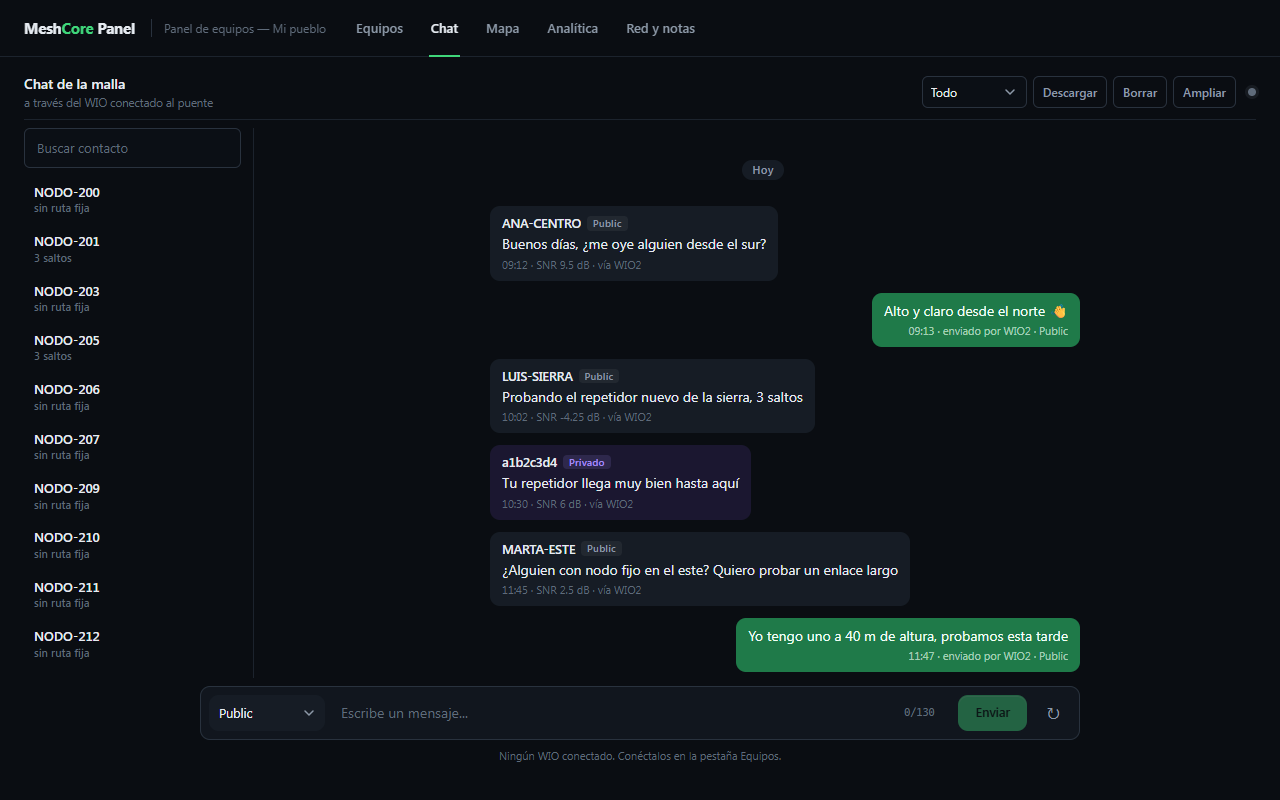
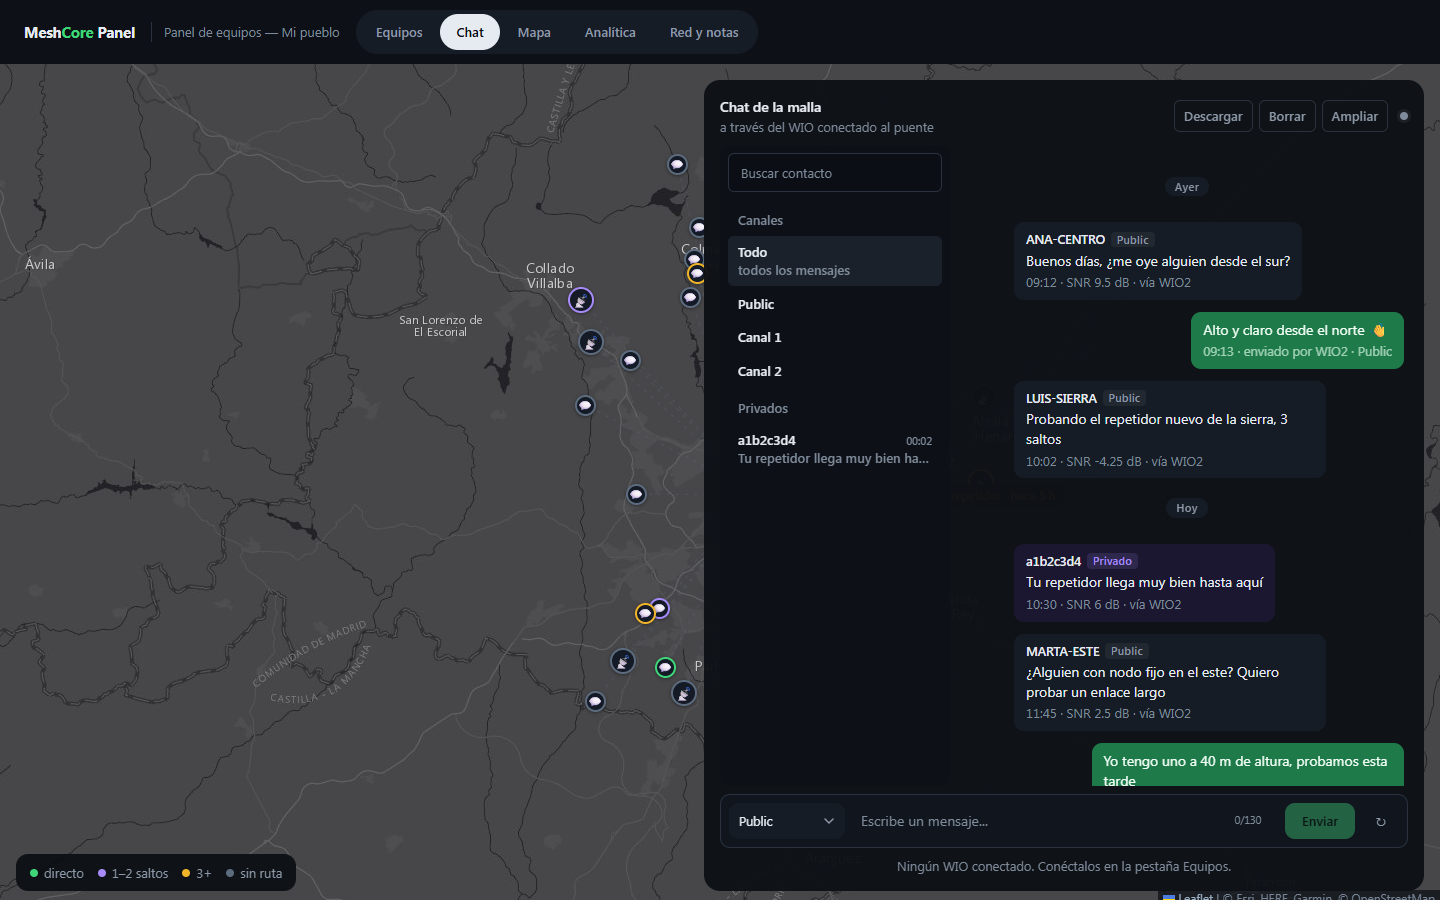
v1.14.0: chat sobre el mapa, cabecera nueva y aviso de repetidor sin señal

diff --git a/dashboard.html b/dashboard.html
@@ -642,6 +642,30 @@ p,.statsNote{max-width:75ch}
 .eqTag::before{display:none}
 #eqMap .leaflet-control-attribution{background:rgba(13,17,22,.8);color:#6d7a88}
 #eqMap .leaflet-control-attribution a{color:#8592a0}
+.red-nav::after{display:none!important}
+.eqAviso{background:#2a2210!important;color:#f2b23a!important;font-weight:600}
+/* Cabecera del diseño nuevo: pestañas en pastillas, la activa resaltada */
+header{background:var(--bg2)!important;border-bottom:none!important}
+nav.tabs{background:var(--raise)!important;border-radius:999px!important;padding:4px!important;margin:0 auto!important;align-self:center!important;gap:2px!important}
+nav.tabs button{height:36px!important;line-height:36px!important;padding:0 16px!important;border-radius:999px!important;color:var(--dim)!important}
+nav.tabs button.on{background:var(--fg)!important;color:var(--bg)!important}
+nav.tabs button.on::after{display:none!important}
+nav.tabs button:hover:not(.on){background:var(--hover)!important;color:var(--fg)!important}
+nav.tabs button .badge2{margin-left:6px}
+/* Chat sobre el mapa: el mapa de fondo y la conversación flotando a la derecha */
+#tab-chat.on{position:relative;margin:-28px calc(50% - 50vw) 0;width:100vw;overflow:hidden;padding:0;height:calc(100dvh - 57px)}
+#tab-chat .grid{display:block;margin:0}
+#tab-chat .chatcard{position:absolute!important;top:16px;right:16px;bottom:16px;left:auto;width:min(720px,calc(100% - 32px))!important;height:auto!important;max-width:none!important;margin:0!important;z-index:500;background:rgba(13,17,22,.97)!important;border-radius:16px!important;padding:16px!important}
+#tab-chat .chatcard.chat-full{left:16px;width:auto!important}
+#tab-chat #chatBox{padding:8px 4px!important}
+#tab-chat .chatComposer{margin:8px 0 0!important}
+#tab-chat .eqLeyenda{right:auto;left:16px}
+@media (max-width:860px){
+  #tab-chat.on{height:calc(100dvh - 96px)}
+  #tab-chat .chatcard{top:auto;left:0;right:0;bottom:0;width:auto!important;height:78%!important;background:var(--panel,#0d1116)!important;border-radius:20px 20px 0 0!important}
+  nav.tabs{border-radius:999px!important;margin:4px 0 8px!important;width:auto!important}
+  nav.tabs button{height:34px!important;padding:0 12px!important;flex:0 0 auto!important}
+}
 @media (max-width:860px){
   #tab-equipos.on{height:calc(100dvh - 96px)}
   #tab-equipos .equiposWrap .grid{display:none}
@@ -1346,7 +1370,7 @@ const CFG=Object.assign({
 }, window.PANEL_CONFIG||{});
 const REPEATER_POS=[CFG.repetidor.lat, CFG.repetidor.lon];
 const REP_NOMBRE=CFG.repetidor.nombre;
-const PANEL_VERSION='1.13.0';
+const PANEL_VERSION='1.14.0';
 $('#panelVersion').textContent='v'+PANEL_VERSION;
 // Sin config.js propio el panel funciona, pero con nombres de ejemplo que no
 // cuadran con ninguna radio: avisarlo para que no parezca un fallo.
@@ -1407,7 +1431,12 @@ function showTab(name){
   document.querySelectorAll('.tabview').forEach(v=>v.classList.toggle('on',v.id==='tab-'+name));
   if(name==='chat'){ unreadChat=0; updateChatBadge(); fitChatCardToViewport(); }
   if(name==='mapa') fitMapWrapToViewport();
-  if(name==='equipos') setTimeout(pintarEqMap,30);
+  // Un solo mapa de fondo: se mueve a la pestaña que lo usa (Equipos o Chat).
+  if(name==='equipos'||name==='chat'){
+    const destino=document.getElementById('tab-'+name), m=$('#eqMap'), ley=$('.eqLeyenda');
+    if(m && m.parentNode!==destino){ destino.prepend(ley); destino.prepend(m); }
+    setTimeout(pintarEqMap,30);
+  }
   if(name==='stats'){ renderStats(); pintarHistoricoRak(); }
   try{ history.replaceState(null,'',name==='equipos'?location.pathname+location.search:'#'+name); }catch(e){}
 }
@@ -3199,7 +3228,7 @@ $('#ccBuscar').addEventListener('input',pintarContactos);
 // herramientas, sigue en la pestaña Mapa.
 let eqMap=null;
 function pintarEqMap(){
-  if(!$('#eqMap') || !$('#tab-equipos').classList.contains('on')) return;
+  if(!$('#eqMap') || !$('#eqMap').offsetParent) return;  // pestaña sin mapa a la vista
   if(!eqMap){
     eqMap=L.map('eqMap',{zoomControl:false});
     L.tileLayer('https://server.arcgisonline.com/ArcGIS/rest/services/Canvas/World_Dark_Gray_Base/MapServer/tile/{z}/{y}/{x}',
@@ -3209,6 +3238,7 @@ function pintarEqMap(){
     eqMap._capa=L.layerGroup().addTo(eqMap);
   }
   const g=eqMap._capa; g.clearLayers();
+  const est=window.rakEstado, sinRak=!est||est.vieja;
   const pts=[REPEATER_POS];  // lo que entra en el encuadre inicial: tu zona, no toda la red
   L.circle(REPEATER_POS,{radius:4000,color:'#3fd67a',weight:1,opacity:.45,fillOpacity:.04,dashArray:'4,6',interactive:false}).addTo(g);
   const vistos=new Set();
@@ -3219,7 +3249,7 @@ function pintarEqMap(){
       vistos.add(c.pubkey);
       if(distKm(REPEATER_POS,[c.lat,c.lon])>150) continue;  // la red ibérica entera no cabe
       const col=c.hops==null?'#5c6b7d':c.hops===0?'#3fd67a':c.hops<=2?'#a78bfa':'#f0b429';
-      L.polyline([REPEATER_POS,[c.lat,c.lon]],{color:col,weight:1,opacity:.35,interactive:false}).addTo(g);
+      L.polyline([REPEATER_POS,[c.lat,c.lon]],sinRak?{color:'#5c6b7d',weight:1,opacity:.35,dashArray:'3,6',interactive:false}:{color:col,weight:1,opacity:.35,interactive:false}).addTo(g);
       L.marker([c.lat,c.lon],{icon:neighborIcon(c)}).addTo(g).bindTooltip(esc(c.name||'(sin nombre)'),{direction:'right',className:'eqTag',offset:[12,0]});
       if(distKm(REPEATER_POS,[c.lat,c.lon])<=30) pts.push([c.lat,c.lon]);
     }
@@ -3232,8 +3262,9 @@ function pintarEqMap(){
       .bindTooltip('WIO'+i,{permanent:true,direction:'right',className:'eqTag',offset:[14,0]});
     pts.push([sp.lat,sp.lon]);
   }
-  L.marker(REPEATER_POS,{icon:mapPin('📡',38,'#0d3a24','#3fd67a'),zIndexOffset:1000}).addTo(g)
-    .bindTooltip(esc(REP_NOMBRE),{permanent:true,direction:'right',className:'eqTag',offset:[18,0]});
+  L.marker(REPEATER_POS,{icon:sinRak?mapPin('📡',38,'#2a2210','#f2b23a'):mapPin('📡',38,'#0d3a24','#3fd67a'),zIndexOffset:1000}).addTo(g)
+    .bindTooltip(sinRak?esc(REP_NOMBRE)+' · sin señal del repetidor'+(est&&est.at?' · '+esc(humanAgo(est.at*1000)):''):esc(REP_NOMBRE),
+      {permanent:true,direction:'right',className:sinRak?'eqTag eqAviso':'eqTag',offset:[18,0]});
   eqMap.invalidateSize();
   if(!eqMap._centrado){
     const ancho=window.innerWidth>860;
@@ -3399,6 +3430,9 @@ async function pintarRakVivo(){
     $('#rl-pkts').textContent=s.nb_recv.toLocaleString()+' / '+s.nb_sent.toLocaleString();
     $('#rl-when').textContent=humanAgo(s.at*1000);
     const vieja = Date.now()/1000 - s.at > 3600;
+    const antes = window.rakEstado && window.rakEstado.vieja;
+    window.rakEstado = {vieja, at:s.at};
+    if(antes!==vieja && typeof pintarEqMap==='function') pintarEqMap();
     $('#rl-when').className='v '+(vieja?'mid':'');
     // Con la medida vieja los valores se atenuan: un 90 % en verde de hace
     // tres dias parecia el estado de ahora.

diff --git a/bridge/meshcore_ble_gateway.py b/bridge/meshcore_ble_gateway.py
@@ -90,7 +90,7 @@ def politica_cli(cmd: str, confirmed: bool):
         return 409, f'CONFIRMAR: {info.cli} - {info.note or info.label}'
     return None
 
-PANEL_VERSION = '1.13.0'
+PANEL_VERSION = '1.14.0'
 PORT = int(os.getenv('MESHCORE_BLE_GATEWAY_PORT', '8780'))
 # 0.0.0.0 por defecto porque el relay del PC entra por la LAN. Si el relay
 # corre en la propia Pi, MESHCORE_BIND=127.0.0.1 deja el puerto solo para nginx.

diff --git a/CHANGELOG.md b/CHANGELOG.md
@@ -3,6 +3,20 @@
 Formato basado en [Keep a Changelog](https://keepachangelog.com/es-ES/1.1.0/) y versiones
 según [SemVer](https://semver.org/lang/es/).
 
+## [1.14.0] - 2026-10-18
+
+### Cambiado
+- Chat sobre el mapa: el mismo mapa de Equipos de fondo y la conversación
+  (canales, privados y contactos) flotando a la derecha; en el móvil, hoja
+  inferior.
+- Cabecera del diseño nuevo: pestañas en pastillas, la activa resaltada.
+- Si el repetidor lleva más de una hora sin medirse, en el mapa su icono y su
+  etiqueta pasan a ámbar («sin señal del repetidor · hace X») y las líneas a
+  los vecinos se vuelven grises y discontinuas.
+
+### Corregido
+- En Red y notas los enlaces de la barra lateral ya no muestran interruptores.
+
 ## [1.13.0] - 2026-10-18
 
 ### Cambiado

diff --git a/README.md b/README.md
@@ -54,7 +54,7 @@ navegador ──HTTPS──> nginx (TLS + login) ──> gateway :8780 (Raspberr
 - El **relay** corre en un PC con Bluetooth cerca de los companion y es su único dueño.
 - El **repetidor** se gestiona por LoRa a través de un companion: no necesita Bluetooth.
 
-Versión actual: 1.13.0**1.0.0** · cambios en [`CHANGELOG.md`](CHANGELOG.md).
+Versión actual: 1.14.0**1.0.0** · cambios en [`CHANGELOG.md`](CHANGELOG.md).
 
 ## Requisitos
 
